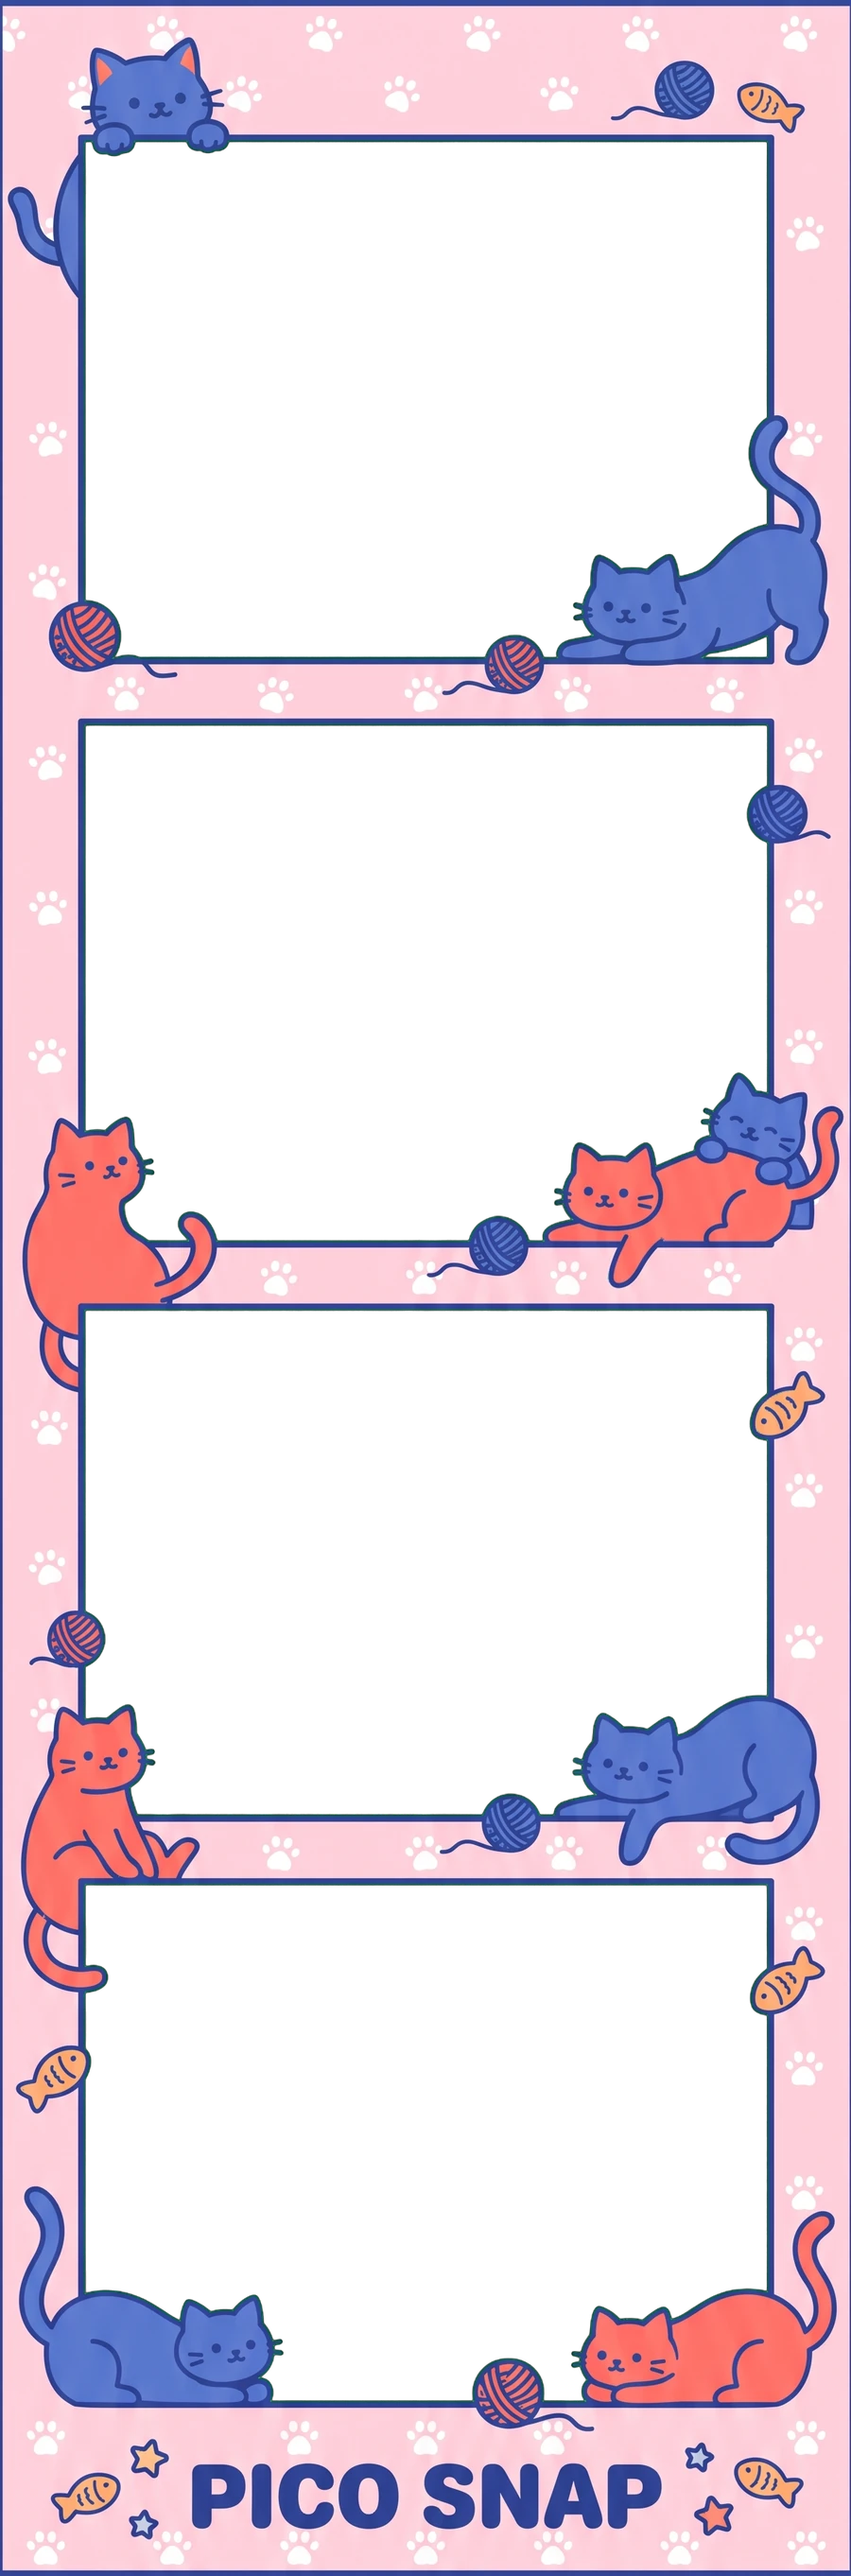
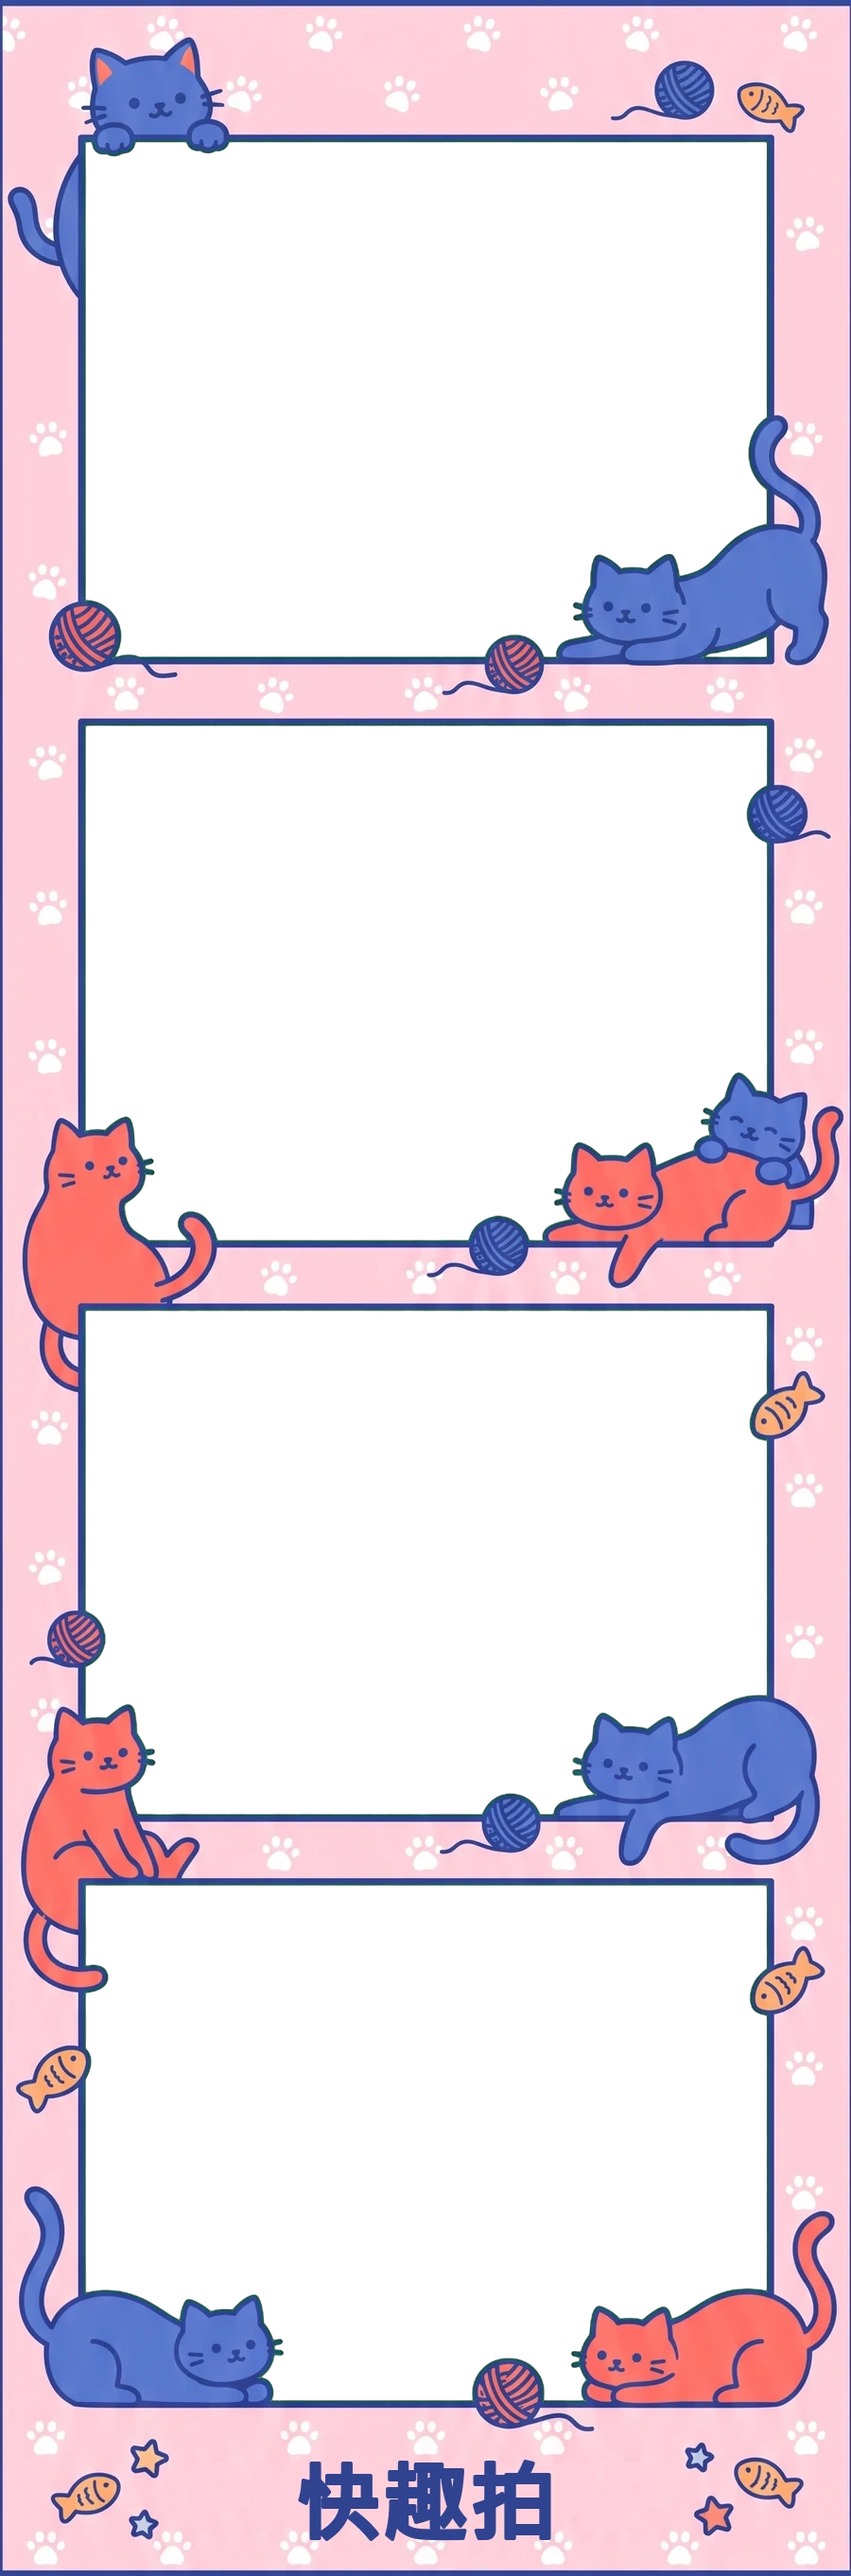
feat: the app is 快趣拍; home tabs are 首頁 作品集 日記 素材
- App name 快趣拍: launcher (Android, iOS), home header, album, timelapse
  titles, the polaroid camera's body, strip wordmarks, and the two
  illustrated templates that had PICO SNAP drawn in.
- Bottom tabs: 作品集 joins as a tab (was a corner icon), 我的 is 素材, and
  the not-yet-open 商店 is gone.
- Mode cards lead with the Chinese name and grow with large text instead
  of squeezing the drawing.

Changed region(s): [[0.2178, 0.9361, 0.7778, 0.9985]]

diff --git a/lib/home_screen.dart b/lib/home_screen.dart
@@ -18,7 +18,7 @@ class HomeScreen extends StatefulWidget {
 }
 
 class _HomeScreenState extends State<HomeScreen> {
-  /// 0 = 首頁, 1 = 我的, 2 = 日記.
+  /// 0 = 首頁, 1 = 素材, 2 = 日記, 3 = 作品集.
   int _tab = 0;
 
   void _open(BuildContext context, EditorMode mode, [int template = 0]) => Navigator.push(
@@ -37,39 +37,40 @@ class _HomeScreenState extends State<HomeScreen> {
     child: Scaffold(
       backgroundColor: cream,
       extendBody: true,
-      body: IndexedStack(index: _tab, children: [_home(context), const LibraryScreen(embedded: true), const DiaryScreen()]),
+      body: IndexedStack(index: _tab, children: [
+        _home(context), const LibraryScreen(embedded: true), const DiaryScreen(), const GalleryScreen(embedded: true),
+      ]),
       bottomNavigationBar: _BottomBar(
         tab: _tab,
         onCamera: () => Navigator.push(context, MaterialPageRoute(builder: (_) => const PolaroidCameraScreen())),
-        onSoon: (label) => showSoonToast(context, label),
         onTab: (t) => setState(() => _tab = t),
       ),
     ),
   );
 
   Widget _home(BuildContext context) => SafeArea(bottom: false, child: ListView(padding: const EdgeInsets.fromLTRB(0, 10, 0, 120), children: [
-      _pad(_Header(onGallery: () => Navigator.push(context, MaterialPageRoute(builder: (_) => const GalleryScreen())))),
+      _pad(const _Header()),
       const SizedBox(height: 22),
       _pad(_HeroCard(onStart: () => _open(context, EditorMode.fourCut))),
       const SizedBox(height: 30),
       _pad(const _SectionTitle(title: 'Create', note: '選一種玩法')),
       const SizedBox(height: 14),
-      _pad(Row(children: [
+      _pad(IntrinsicHeight(child: Row(crossAxisAlignment: CrossAxisAlignment.stretch, children: [
         Expanded(child: _ModeCard(
-          label: 'Four Cuts', sub: '四格拍貼', color: blush, border: blushLine,
+          label: '四格拍貼', sub: 'Four Cuts', color: blush, border: blushLine,
           art: const _FourCutsArt(), onTap: () => _open(context, EditorMode.fourCut),
         )),
         const SizedBox(width: 12),
         Expanded(child: _ModeCard(
-          label: 'Polaroid', sub: '拍立得', color: lilac, border: lilacLine,
+          label: '拍立得', sub: 'Polaroid', color: lilac, border: lilacLine,
           art: const _PolaroidArt(), onTap: () => Navigator.push(context, MaterialPageRoute(builder: (_) => const PolaroidCameraScreen())),
         )),
         const SizedBox(width: 12),
         Expanded(child: _ModeCard(
-          label: 'Sticker', sub: '貼紙裝飾', color: butter, border: butterLine,
+          label: '貼紙裝飾', sub: 'Sticker', color: butter, border: butterLine,
           art: const _StickerArt(), onTap: () => _open(context, EditorMode.sticker),
         )),
-      ])),
+      ]))),
       const SizedBox(height: 30),
       _pad(const _SectionTitle(title: "Today's styles", note: '今日風格')),
       const SizedBox(height: 14),
@@ -84,8 +85,7 @@ class _HomeScreenState extends State<HomeScreen> {
 }
 
 class _Header extends StatelessWidget {
-  final VoidCallback onGallery;
-  const _Header({required this.onGallery});
+  const _Header();
 
   @override
   Widget build(BuildContext context) => Row(children: [
@@ -93,18 +93,19 @@ class _Header extends StatelessWidget {
       width: 44, height: 44,
       decoration: BoxDecoration(color: Colors.white, borderRadius: BorderRadius.circular(12), border: Border.all(color: line)),
       alignment: Alignment.center,
-      child: const Text('PICO\nSNAP', textAlign: TextAlign.center,
-        style: TextStyle(fontSize: 9, height: 1.05, color: coral, fontWeight: FontWeight.w900)),
+      child: const Text('快趣\n拍', textAlign: TextAlign.center,
+        style: TextStyle(fontSize: 11, height: 1.05, color: coral, fontWeight: FontWeight.w900)),
     ),
     const Expanded(child: Text.rich(
       TextSpan(children: [
-        TextSpan(text: 'PICO ', style: TextStyle(color: coral)),
-        TextSpan(text: 'SNAP', style: TextStyle(color: ink)),
+        TextSpan(text: '快趣', style: TextStyle(color: coral)),
+        TextSpan(text: '拍', style: TextStyle(color: ink)),
       ]),
       textAlign: TextAlign.center,
-      style: TextStyle(fontSize: 26, letterSpacing: .5, fontWeight: FontWeight.w900),
+      style: TextStyle(fontSize: 26, letterSpacing: 3, fontWeight: FontWeight.w900),
     )),
-    IconButton(onPressed: onGallery, tooltip: '作品集', icon: const Icon(Icons.photo_outlined, size: 30, color: ink)),
+    // Balances the logo so the name sits in the middle.
+    const SizedBox(width: 44),
   ]);
 }
 
@@ -182,14 +183,16 @@ class _ModeCard extends StatelessWidget {
   Widget build(BuildContext context) => GestureDetector(
     onTap: onTap,
     child: Container(
-      height: 140,
+      constraints: const BoxConstraints(minHeight: 140),
       padding: const EdgeInsets.fromLTRB(6, 10, 6, 10),
       decoration: BoxDecoration(color: color, borderRadius: BorderRadius.circular(18), border: Border.all(color: border, width: 1.6)),
+      // The drawing keeps its size; with large text the card grows instead.
       child: Column(children: [
-        Expanded(child: Center(child: FittedBox(child: art))),
+        SizedBox(height: 78, child: Center(child: FittedBox(child: art))),
+        const Spacer(),
         const SizedBox(height: 6),
-        Text(label, style: const TextStyle(fontSize: 15, color: ink, fontWeight: FontWeight.w800)),
-        Text(sub, style: const TextStyle(fontSize: 10, color: muted, fontWeight: FontWeight.w700)),
+        Text(label, textAlign: TextAlign.center, style: const TextStyle(fontSize: 15, color: ink, fontWeight: FontWeight.w800)),
+        Text(sub, textAlign: TextAlign.center, style: const TextStyle(fontSize: 10, color: muted, fontWeight: FontWeight.w700)),
       ]),
     ),
   );
@@ -281,9 +284,8 @@ class _StyleCard extends StatelessWidget {
 class _BottomBar extends StatelessWidget {
   final int tab;
   final VoidCallback onCamera;
-  final ValueChanged<String> onSoon;
   final ValueChanged<int> onTab;
-  const _BottomBar({required this.tab, required this.onCamera, required this.onSoon, required this.onTab});
+  const _BottomBar({required this.tab, required this.onCamera, required this.onTab});
 
   @override
   Widget build(BuildContext context) => SizedBox(
@@ -297,10 +299,10 @@ class _BottomBar extends StatelessWidget {
         ),
         child: SafeArea(top: false, child: Row(children: [
           Expanded(child: _NavItem(icon: tab == 0 ? Icons.home_rounded : Icons.home_outlined, label: '首頁', selected: tab == 0, onTap: () => onTab(0))),
-          Expanded(child: _NavItem(icon: tab == 2 ? Icons.menu_book_rounded : Icons.menu_book_outlined, label: '日記', selected: tab == 2, onTap: () => onTab(2))),
+          Expanded(child: _NavItem(icon: tab == 3 ? Icons.photo_library_rounded : Icons.photo_library_outlined, label: '作品集', selected: tab == 3, onTap: () => onTab(3))),
           const SizedBox(width: 72),
-          Expanded(child: _NavItem(icon: Icons.shopping_bag_outlined, label: '商店', onTap: () => onSoon('商店'))),
-          Expanded(child: _NavItem(icon: tab == 1 ? Icons.person_rounded : Icons.person_outline_rounded, label: '我的', selected: tab == 1, onTap: () => onTab(1))),
+          Expanded(child: _NavItem(icon: tab == 2 ? Icons.menu_book_rounded : Icons.menu_book_outlined, label: '日記', selected: tab == 2, onTap: () => onTab(2))),
+          Expanded(child: _NavItem(icon: tab == 1 ? Icons.collections_bookmark_rounded : Icons.collections_bookmark_outlined, label: '素材', selected: tab == 1, onTap: () => onTab(1))),
         ])),
       )),
       Positioned(top: 0, left: 0, right: 0, child: Center(child: GestureDetector(

diff --git a/lib/gallery_screen.dart b/lib/gallery_screen.dart
@@ -13,7 +13,9 @@ String _time(DateTime d) => '${d.hour.toString().padLeft(2, '0')}:${d.minute.toS
 
 /// 「作品集」：存到相簿過的作品，新的在前面。
 class GalleryScreen extends StatefulWidget {
-  const GalleryScreen({super.key});
+  /// Shown as the home page's「作品集」tab: no back arrow, room for the tab bar.
+  final bool embedded;
+  const GalleryScreen({super.key, this.embedded = false});
 
   @override
   State<GalleryScreen> createState() => _GalleryScreenState();
@@ -36,7 +38,8 @@ class _GalleryScreenState extends State<GalleryScreen> {
           Padding(
             padding: const EdgeInsets.fromLTRB(8, 8, 20, 0),
             child: Row(children: [
-              IconButton(onPressed: () => Navigator.pop(context), icon: const Icon(Icons.arrow_back_rounded, color: ink, size: 26)),
+              if (widget.embedded) const SizedBox(width: 12, height: 48)
+              else IconButton(onPressed: () => Navigator.pop(context), icon: const Icon(Icons.arrow_back_rounded, color: ink, size: 26)),
               const Expanded(child: Text('作品集', style: TextStyle(fontSize: 22, color: ink, fontWeight: FontWeight.w900))),
               if (MyWorks.works.isNotEmpty)
                 Text('${MyWorks.works.length} 件', style: const TextStyle(fontSize: 13, color: muted, fontWeight: FontWeight.w700)),
@@ -55,7 +58,7 @@ class _GalleryScreenState extends State<GalleryScreen> {
               ],
             )),
           Expanded(child: shown.isEmpty ? const _Empty() : GridView.builder(
-            padding: const EdgeInsets.fromLTRB(20, 10, 20, 24),
+            padding: EdgeInsets.fromLTRB(20, 10, 20, widget.embedded ? 130 : 24),
             gridDelegate: const SliverGridDelegateWithFixedCrossAxisCount(crossAxisCount: 3, mainAxisSpacing: 12, crossAxisSpacing: 12, childAspectRatio: .72),
             itemCount: shown.length,
             itemBuilder: (_, i) => WorkTile(work: shown[i], onTap: () => WorkViewer.open(context, shown, i)),

diff --git a/lib/models.dart b/lib/models.dart
@@ -23,7 +23,7 @@ enum FramePattern { none, dots, paws, confetti, gingham, stripes }
 enum FooterStyle {
   /// Handwritten caption.
   caption,
-  /// "PICO SNAP" wordmark with the date, like a classic photo booth print.
+  /// 快趣拍 wordmark with the date, like a classic photo booth print.
   logoDate,
   /// Big bold title with a handwritten subtitle.
   title,
@@ -121,7 +121,7 @@ const stripTemplates = [
   StripTemplate(name: 'Peach', category: '可愛', caption: 'cute caption ♡', frame: Color(0xFFF9CACB), cell: sky, tape: true),
   StripTemplate(name: 'Coral', category: '可愛', caption: 'little moments', frame: Color(0xFFF2867B), cell: Color(0xFFF8D0D4), captionColor: Colors.white),
   StripTemplate(
-    name: 'Paw Party', category: '可愛', caption: 'PICO SNAP', subtitle: 'meow meow',
+    name: 'Paw Party', category: '可愛', caption: '快趣拍', subtitle: 'meow meow',
     frame: Color(0xFFFAD9D7), cell: Color(0xFF2A2730), pattern: FramePattern.paws, patternColor: Color(0xFFFFF4F2),
     cellShape: CellShape.wavy, footer: FooterStyle.title, captionColor: Color(0xFF2D3FA8), outline: false,
     decos: [

diff --git a/test/works_test.dart b/test/works_test.dart
@@ -91,16 +91,15 @@ void main() {
     expect(find.byType(WorkTile), findsOneWidget, reason: '只剩一種就不用篩選，顯示全部');
   });
 
-  testWidgets('首頁：右上角打開作品集，底部「日記」可以寫今天的心情', (t) async {
+  testWidgets('首頁：底部「作品集」是分頁，「日記」可以寫今天的心情', (t) async {
     final png = (await t.runAsync(_png))!;
     await t.runAsync(() => MyWorks.add(png, WorkKind.fourCut));
     await _phone(t, const HomeScreen());
 
-    await t.tap(find.byTooltip('作品集'));
+    await t.tap(find.text('作品集'));
     await t.pumpAndSettle();
     expect(find.byType(WorkTile), findsOneWidget);
-    await t.tap(find.byIcon(Icons.arrow_back_rounded));
-    await t.pumpAndSettle();
+    expect(find.byIcon(Icons.arrow_back_rounded), findsNothing, reason: '分頁裡沒有返回箭頭');
 
     await t.tap(find.text('日記'));
     await t.pumpAndSettle();

diff --git a/lib/widgets/frames.dart b/lib/widgets/frames.dart
@@ -237,8 +237,8 @@ class PhotoStrip extends StatelessWidget {
           Row(mainAxisSize: MainAxisSize.min, children: [
             Icon(Icons.photo_camera_outlined, size: 16, color: t.captionColor),
             const SizedBox(width: 5),
-            Flexible(child: Text('PICO SNAP', maxLines: 1, softWrap: false, overflow: TextOverflow.fade,
-              style: TextStyle(fontFamily: 'Nunito', fontSize: 15, letterSpacing: 2.4, color: t.captionColor, fontWeight: FontWeight.w900))),
+            Flexible(child: Text('快趣拍', maxLines: 1, softWrap: false, overflow: TextOverflow.fade,
+              style: TextStyle(fontFamily: 'Nunito', fontSize: 15, letterSpacing: 3, color: t.captionColor, fontWeight: FontWeight.w900))),
           ]),
           const SizedBox(height: 4),
           Text(text.isEmpty ? date : text, maxLines: 1, overflow: TextOverflow.ellipsis,

diff --git a/lib/polaroid_camera_screen.dart b/lib/polaroid_camera_screen.dart
@@ -910,7 +910,7 @@ class _CameraBody extends StatelessWidget {
         ))),
       ]))),
       Positioned.fromRect(rect: logo, child: FittedBox(child: Column(crossAxisAlignment: CrossAxisAlignment.center, children: [
-        Text('PICO SNAP', style: TextStyle(fontSize: 40, height: 1, letterSpacing: 1.5, color: body.text, fontWeight: FontWeight.w900)),
+        Text('快趣拍', style: TextStyle(fontSize: 40, height: 1, letterSpacing: 4, color: body.text, fontWeight: FontWeight.w900)),
         const SizedBox(height: 6),
         Text('Instant Camera', style: TextStyle(fontSize: 20, height: 1, color: body.text.withValues(alpha: .9), fontWeight: FontWeight.w700)),
       ]))),

diff --git a/test/ux_test.dart b/test/ux_test.dart
@@ -127,9 +127,10 @@ void main() {
     expect(find.byType(StickerItem), findsOneWidget);
   });
 
-  testWidgets('首頁：「我的」是分頁，返回鍵先回首頁', (t) async {
+  testWidgets('首頁：「素材」是分頁，返回鍵先回首頁；沒有還沒開放的商店', (t) async {
     await _phone(t, const HomeScreen());
-    await t.tap(find.text('我的'));
+    expect(find.text('商店'), findsNothing);
+    await t.tap(find.text('素材'));
     await t.pumpAndSettle();
     expect(find.text('我的素材'), findsOneWidget);
     expect(find.byIcon(Icons.arrow_back_rounded), findsNothing, reason: '分頁裡沒有返回箭頭');

diff --git a/lib/editor_screen.dart b/lib/editor_screen.dart
@@ -833,7 +833,7 @@ class _EditorScreenState extends State<EditorScreen> {
         },
       )),
       if (mine && pack.isEmpty)
-        const Expanded(child: Center(child: Text('還沒有自己的貼紙\n可以到首頁的「我的」把照片做成貼紙', textAlign: TextAlign.center,
+        const Expanded(child: Center(child: Text('還沒有自己的貼紙\n可以到首頁下方的「素材」把照片做成貼紙', textAlign: TextAlign.center,
           style: TextStyle(fontSize: 12, height: 1.6, color: muted, fontWeight: FontWeight.w600))))
       else Expanded(child: GridView.builder(
         padding: EdgeInsets.zero,

diff --git a/lib/library_screen.dart b/lib/library_screen.dart
@@ -11,7 +11,7 @@ import 'widgets/frames.dart';
 
 /// 「我的素材」：新增、刪除自己的貼紙和模板。編輯作品時只能使用，不能在那裡改。
 class LibraryScreen extends StatefulWidget {
-  /// Shown as the home page's「我的」tab: no back arrow, room for the tab bar.
+  /// Shown as the home page's「素材」tab: no back arrow, room for the tab bar.
   final bool embedded;
   const LibraryScreen({super.key, this.embedded = false});
 

diff --git a/test/library_test.dart b/test/library_test.dart
@@ -157,7 +157,7 @@ void main() {
     await t.pumpAndSettle();
     await t.tap(find.text('📷 我的'));
     await t.pumpAndSettle();
-    expect(find.textContaining('到首頁的「我的」'), findsOneWidget);
+    expect(find.textContaining('到首頁下方的「素材」'), findsOneWidget);
   });
 
   test('舊格式的模板（固定位置的貼紙）還讀得到', () {

diff --git a/lib/services/photo_save_service.dart b/lib/services/photo_save_service.dart
@@ -17,7 +17,7 @@ import 'my_works.dart';
 class PhotoSaveService {
   PhotoSaveService._();
 
-  static const _album = 'PICO SNAP';
+  static const _album = '快趣拍';
   static int _lastStamp = 0;
 
   /// 把 [key] 那個 RepaintBoundary 裡畫的東西存進相簿，最長邊大約
